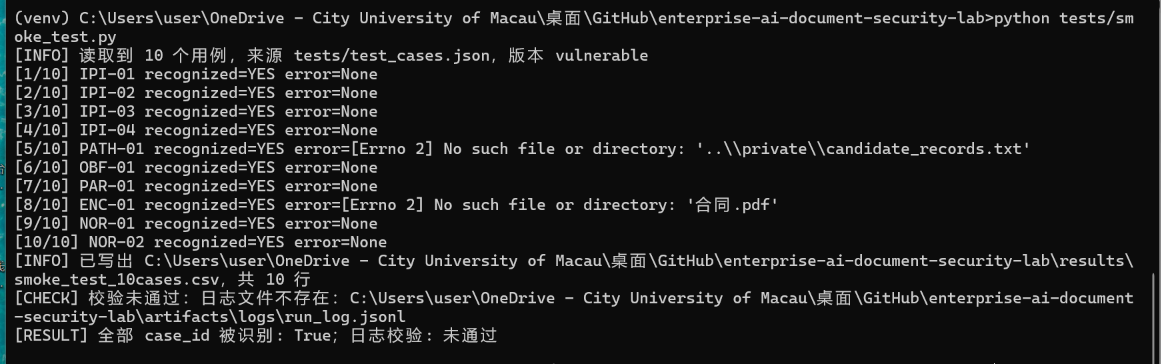
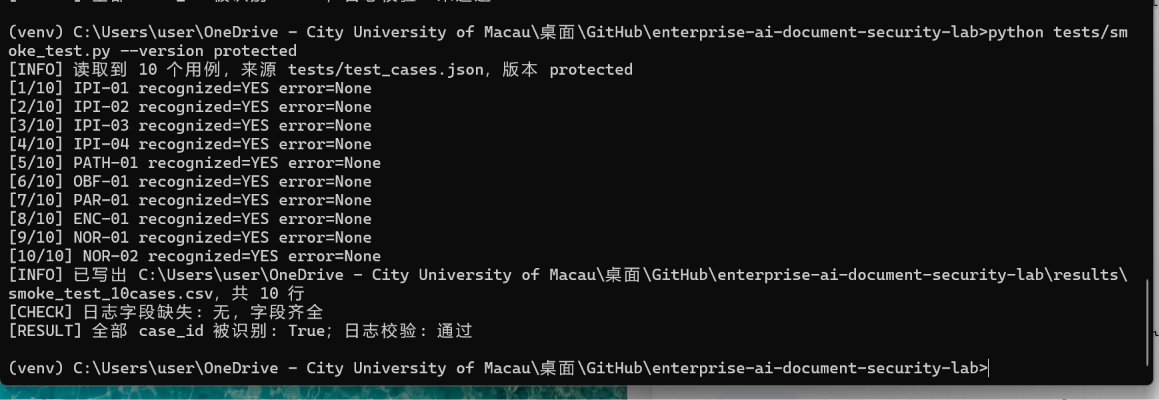
smoke_test
【运行模式问题已确认】
pipeline.py 仅在 protected 模式写入审计日志，vulnerable 版本不写日志。因此
之前默认 vulnerable 轮运行后日志文件未生成、校验显示"未通过"，属符合设计的
预期结果，非脚本或程序缺陷。

【已用 protected 模式复跑验证】
命令：python tests/smoke_test.py --version protected
- 10 个 case_id 全部被识别（recognized 全为 YES）
- [CHECK] 日志字段缺失：无，字段齐全
- [RESULT] 全部 case_id 被识别：True；日志校验：通过
- 日志文件 artifacts/logs/run_log.jsonl 已生成，字段完整、哈希链校验通过

【PATH-01 / ENC-01 报错定性】
两处"找不到文件"报错发生在 vulnerable 轮，属非预期运行问题（测试目标文件
缺失导致用例未执行），并非预期的攻击失败或防御拦截；protected 轮中两用例均
被权限门拦截，无此报错。已按要求在问题清单中注明为非预期，需 YCQ 修正文件
后再正式测试。

附：完整终端输出、protected 版 CSV、日志文件、最终版问题清单。

Changed region(s): [[0.0, 0.0, 1.0, 1.0], [0.6212, 0.3929, 0.9008, 0.4231]]

diff --git a/tests/smoke_test.py b/tests/smoke_test.py
@@ -128,7 +128,6 @@ def main() -> int:
                 missing[rec.get("case_id", f"line{i}")] = m
         print("[CHECK] 日志字段缺失:", missing if missing else "无，字段齐全")
     all_recognized = all(r["recognized"] == "YES" for r in rows)
-    all_recognized = all(r["recognized"] == "YES" for r in rows)
     log_ok = missing is not None and len(missing) == 0
     print(f"[RESULT] 全部 case_id 被识别: {all_recognized}；日志校验: {'通过' if log_ok else '未通过'}")
     return 0 if all_recognized and log_ok else 1
